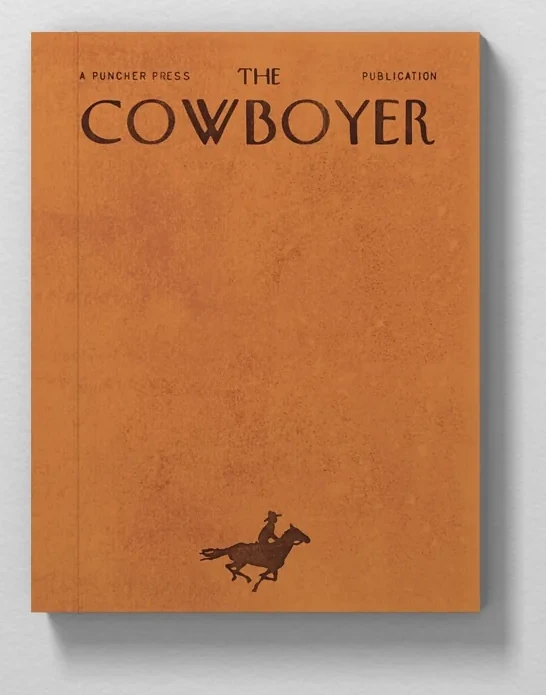
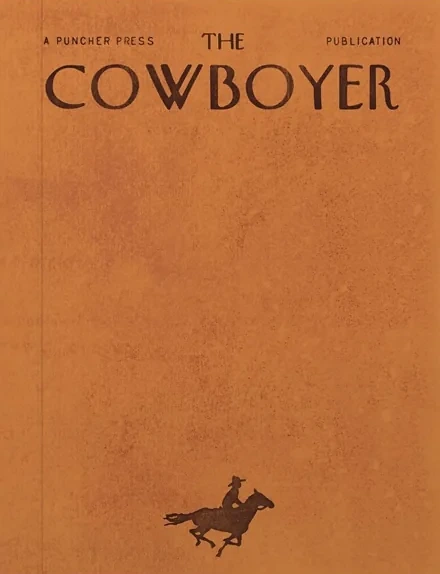
Index plates: factual labels, artwork without frames, originals kept
- Captions name only what is true of each image: its format and the
  wording printed on it (Double Decker Arts Festival, Collage Studio,
  Stars for Second Harvest). Role and Year already sit under the title,
  so plates with nothing more to say carry no caption.
- Joseph Martin and ERNEST show the printed sheet, cropped inside the
  frame; The Cowboyer shows each cover's flat face. Scout no longer
  repeats each illustration as a framed print.
- The original mockups are kept at full resolution in retired/assets,
  following the repository's convention for source images the site no
  longer shows.
- Phones: the Index number and year columns take only the width their
  text needs and the names use the desktop tracking, so every project
  name holds one line and each row keeps its 36px rhythm at 375px
  (Ronnie Hodges Performance Horses wrapped to 43px).

Claude-Session: https://claude.ai/code/session_01GZLWUqV4fTwGcLV6gF4Gcj

diff --git a/site/index/index.html b/site/index/index.html
@@ -748,6 +748,15 @@ body.work-index{height:100dvh;max-height:100dvh}
  .work-index .work-panel.is-open .series > .photo-plate img{width:100%;height:100%;max-height:100%;object-fit:contain}
  .work-index .work-panel.is-open .series-nav{flex:none;min-height:44px}
 }
+
+/* Phones: every project name holds one line, so each row keeps the 36px rhythm.
+   The numbers need 28px and "Ongoing" 54px; the name column takes the rest,
+   set with the same -.015em tracking the desktop Index uses. */
+@media(max-width:850px){
+ .work-index .index-table{letter-spacing:-.015em}
+ .work-index .index-table col:nth-child(1){width:28px}
+ .work-index .index-table col:nth-child(4){width:54px}
+}
 </style><script src="/index/paintings-archive.js" defer></script><link rel="preconnect" href="https://fonts.googleapis.com">
 <link rel="preconnect" href="https://fonts.gstatic.com" crossorigin>
 <link rel="stylesheet" href="/assets/css/geist-mono.css?v=1">
@@ -817,17 +826,15 @@ body.work-index{height:100dvh;max-height:100dvh}
     <div class="panel-content plate" data-panel="scout" hidden>
       <div class="panel-top"><h2 class="panel-title">Scout Motors</h2><button class="panel-close" type="button" aria-label="Close Scout Motors artwork">CLOSE ×</button></div>
       <div class="series" data-series="scout" aria-label="Scout Motors artwork">
-        <figure class="archive-plate photo-plate" data-caption="I / DESERT / ARTWORK"><img loading="lazy" src="../assets/scout-desert.jpg" width="1717" height="2200" alt="Scout illustration: a vehicle and a coyote raising dust across a wide desert, Scout script below" onerror="this.parentElement.classList.add('is-pending');this.hidden=true"></figure>
-        <figure class="archive-plate photo-plate" data-caption="II / RIDERS / ARTWORK" hidden><img loading="lazy" src="../assets/scout-riders.jpg" width="1718" height="2200" alt="Scout illustration: a vehicle alongside two horseback riders under a pale sky, Scout script above" onerror="this.parentElement.classList.add('is-pending');this.hidden=true"></figure>
-        <figure class="archive-plate photo-plate" data-caption="I / DESERT / FRAMED PRINT" hidden><img loading="lazy" src="../assets/scout-desert-framed.jpg" width="1409" height="1600" alt="The desert Scout illustration as a framed print" onerror="this.parentElement.classList.add('is-pending');this.hidden=true"></figure>
-        <figure class="archive-plate photo-plate" data-caption="II / RIDERS / FRAMED PRINT" hidden><img loading="lazy" src="../assets/scout-riders-framed.jpg" width="1413" height="1600" alt="The riders Scout illustration as a framed print" onerror="this.parentElement.classList.add('is-pending');this.hidden=true"></figure>
+        <figure class="archive-plate photo-plate" data-caption=""><img loading="lazy" src="../assets/scout-desert.jpg" width="1717" height="2200" alt="Scout illustration of a vehicle crossing a wide desert landscape" onerror="this.parentElement.classList.add('is-pending');this.hidden=true"></figure>
+        <figure class="archive-plate photo-plate" data-caption="" hidden><img loading="lazy" src="../assets/scout-riders.jpg" width="1718" height="2200" alt="Scout illustration of a vehicle alongside horseback riders" onerror="this.parentElement.classList.add('is-pending');this.hidden=true"></figure>
       </div>
       <div class="series-nav" data-pair-nav="scout" role="group" aria-label="Browse Scout Motors artwork">
         <button type="button" data-pair-step="-1" aria-label="Previous image">←</button>
-        <span data-pair-count>01 / 04</span>
+        <span data-pair-count>01 / 02</span>
         <button type="button" data-pair-step="1" aria-label="Next image">→</button>
       </div>
-      <p class="archive-plate-caption" data-series-caption>I / DESERT / ARTWORK</p>
+      <p class="archive-plate-caption" data-series-caption></p>
     </div>
     <div class="panel-content plate" data-panel="kashus" hidden>
       <div class="panel-top"><h2 class="panel-title">Kashus Culpepper</h2><button class="panel-close" type="button" aria-label="Close Kashus releases">CLOSE ×</button></div>
@@ -841,23 +848,23 @@ body.work-index{height:100dvh;max-height:100dvh}
     <div class="panel-content plate" data-panel="corey" hidden>
       <div class="panel-top"><h2 class="panel-title">Corey Kent</h2><button class="panel-close" type="button" aria-label="Close Corey Kent releases">CLOSE ×</button></div>
       <figure class="archive-plate photo-plate corey-artwork"><img loading="lazy" src="../assets/ck.jpg" width="4000" height="4000" alt="Corey Kent Poster Child EP artwork in blue on cream" onerror="this.parentElement.classList.add('is-pending');this.hidden=true"></figure>
-      <p class="archive-plate-caption"><a href="https://open.spotify.com/album/3GNybGSzZJEuDRYojyUiPz" target="_blank" rel="noopener noreferrer">POSTER CHILD EP ↗</a> / COVER ARTWORK / 2025</p>
+      <p class="archive-plate-caption"><a href="https://open.spotify.com/album/3GNybGSzZJEuDRYojyUiPz" target="_blank" rel="noopener noreferrer">POSTER CHILD EP ↗</a> / COVER ARTWORK</p>
     </div>
 
         <div class="panel-content plate" data-panel="joseph" hidden>
       <div class="panel-top"><h2 class="panel-title">Joseph Martin</h2><button class="panel-close" type="button" aria-label="Close Joseph Martin">CLOSE ×</button></div>
       <div class="series" data-series="joseph" aria-label="Joseph Martin artwork">
-        <figure class="archive-plate photo-plate" data-caption="HATMAKER / DOUBLE DECKER ARTS FESTIVAL POSTER"><img loading="lazy" src="../assets/jm3.png" width="1339" height="1841" alt="Joseph Martin Hatmaker Double Decker Arts Festival poster in purple with cowboy on horseback" onerror="this.parentElement.classList.add('is-pending');this.hidden=true"></figure>
-        <figure class="archive-plate photo-plate" data-caption="MARTIN SURVIVES / EVENT POSTER" hidden><img loading="lazy" src="../assets/joseph-martin-survives.webp" width="605" height="758" alt="Framed Martin Survives event poster, western illustration in red" onerror="this.parentElement.classList.add('is-pending');this.hidden=true"></figure>
-        <figure class="archive-plate photo-plate" data-caption="DON'T CALL IT LUCK / EVENT POSTER" hidden><img loading="lazy" src="../assets/joseph-martin-luck.webp" width="605" height="759" alt="Framed Don't Call It Luck event poster, cowboy illustration in red" onerror="this.parentElement.classList.add('is-pending');this.hidden=true"></figure>
-        <figure class="archive-plate photo-plate" data-caption="COWBOY / INK DRAWING" hidden><img loading="lazy" src="../assets/cg.png" width="19872" height="19872" alt="Red ink illustration of a cowboy in a wide-brimmed hat, for Joseph Martin" onerror="this.parentElement.classList.add('is-pending');this.hidden=true"></figure>
+        <figure class="archive-plate photo-plate" data-caption="POSTER / DOUBLE DECKER ARTS FESTIVAL, OXFORD"><img loading="lazy" src="../assets/jm3.png" width="1339" height="1841" alt="Joseph Martin Hatmaker Double Decker Arts Festival poster in purple with cowboy on horseback" onerror="this.parentElement.classList.add('is-pending');this.hidden=true"></figure>
+        <figure class="archive-plate photo-plate" data-caption="EVENT POSTER / COLLAGE STUDIO, JACKSON" hidden><img loading="lazy" src="../assets/joseph-martin-survives.webp" width="498" height="640" alt="Martin Survives event poster, western illustration in red" onerror="this.parentElement.classList.add('is-pending');this.hidden=true"></figure>
+        <figure class="archive-plate photo-plate" data-caption="EVENT POSTER / COLLAGE STUDIO, JACKSON" hidden><img loading="lazy" src="../assets/joseph-martin-luck.webp" width="498" height="640" alt="Don't Call It Luck event poster, cowboy illustration in red" onerror="this.parentElement.classList.add('is-pending');this.hidden=true"></figure>
+        <figure class="archive-plate photo-plate" data-caption="ILLUSTRATION" hidden><img loading="lazy" src="../assets/cg.png" width="19872" height="19872" alt="Red ink illustration of a cowboy in a wide-brimmed hat, for Joseph Martin" onerror="this.parentElement.classList.add('is-pending');this.hidden=true"></figure>
       </div>
       <div class="series-nav" data-pair-nav="joseph" role="group" aria-label="Browse Joseph Martin artwork">
         <button type="button" data-pair-step="-1" aria-label="Previous image">←</button>
         <span data-pair-count>01 / 04</span>
         <button type="button" data-pair-step="1" aria-label="Next image">→</button>
       </div>
-      <p class="archive-plate-caption" data-series-caption>HATMAKER / DOUBLE DECKER ARTS FESTIVAL POSTER</p>
+      <p class="archive-plate-caption" data-series-caption>POSTER / DOUBLE DECKER ARTS FESTIVAL, OXFORD</p>
     </div>
     <div class="panel-content" data-panel="freeman" hidden>
       <div class="panel-top"><h2 class="panel-title">Freeman General Contracting</h2><button class="panel-close" type="button" aria-label="Close Freeman General Contracting">CLOSE ×</button></div>
@@ -877,8 +884,8 @@ body.work-index{height:100dvh;max-height:100dvh}
     </div>
     <div class="panel-content plate" data-panel="ernest" hidden>
       <div class="panel-top"><h2 class="panel-title">ERNEST</h2><button class="panel-close" type="button" aria-label="Close ERNEST">CLOSE ×</button></div>
-      <figure class="archive-plate photo-plate whole-plate"><img loading="lazy" src="../assets/ernest-second-harvest.webp" width="612" height="698" alt="Framed Stars for Second Harvest event poster designed for ERNEST" onerror="this.parentElement.classList.add('is-pending');this.hidden=true"></figure>
-      <p class="archive-plate-caption">STARS FOR SECOND HARVEST / EVENT POSTER / 2025</p>
+      <figure class="archive-plate photo-plate whole-plate"><img loading="lazy" src="../assets/ernest-second-harvest.webp" width="460" height="584" alt="Stars for Second Harvest event poster designed for ERNEST" onerror="this.parentElement.classList.add('is-pending');this.hidden=true"></figure>
+      <p class="archive-plate-caption">EVENT POSTER / STARS FOR SECOND HARVEST</p>
     </div>
     <div class="panel-content plate" data-panel="drawings" hidden>
       <div class="panel-top"><h2 class="panel-title">Drawings</h2><button class="panel-close" type="button" aria-label="Close Drawings">CLOSE ×</button></div>
@@ -890,40 +897,40 @@ body.work-index{height:100dvh;max-height:100dvh}
           <button type="button" data-drawings-step="1" aria-label="Next drawing">→</button>
         </div>
       </div>
-      <p class="archive-plate-caption" id="drawings-caption">BISON STUDY / INDEPENDENT WORK</p>
+      <p class="archive-plate-caption" id="drawings-caption">BISON STUDY</p>
     </div>
     <div class="panel-content plate" data-panel="cowboyer" hidden>
       <div class="panel-top"><h2 class="panel-title">The Cowboyer</h2><button class="panel-close" type="button" aria-label="Close The Cowboyer">CLOSE ×</button></div>
       <div class="series" data-series="cowboyer" aria-label="The Cowboyer cover studies">
-        <figure class="archive-plate photo-plate" data-caption="BISON / COVER STUDY"><img loading="lazy" src="../assets/cowboyer-bison.webp" width="517" height="661" alt="The Cowboyer magazine cover with bison under colored western sky" onerror="this.parentElement.classList.add('is-pending');this.hidden=true"></figure>
-        <figure class="archive-plate photo-plate" data-caption="ORANGE RIDER / COVER STUDY" hidden><img loading="lazy" src="../assets/cowboyer-orange-rider.webp" width="546" height="695" alt="The Cowboyer magazine cover in orange with a small horse and rider" onerror="this.parentElement.classList.add('is-pending');this.hidden=true"></figure>
-        <figure class="archive-plate photo-plate" data-caption="RED LASSO / COVER STUDY" hidden><img loading="lazy" src="../assets/Group%20394.png" width="2580" height="3323" alt="The Cowboyer cover: a small cowboy swinging a red lasso" onerror="this.parentElement.classList.add('is-pending');this.hidden=true"></figure>
-        <figure class="archive-plate photo-plate" data-caption="DESERT / COVER STUDY" hidden><img loading="lazy" src="../assets/Group%20393.png" width="2557" height="3323" alt="The Cowboyer cover: a cowboy watching a tall cloud rise over the desert" onerror="this.parentElement.classList.add('is-pending');this.hidden=true"></figure>
+        <figure class="archive-plate photo-plate" data-caption=""><img loading="lazy" src="../assets/cowboyer-bison.webp" width="421" height="547" alt="The Cowboyer magazine cover with bison under colored western sky" onerror="this.parentElement.classList.add('is-pending');this.hidden=true"></figure>
+        <figure class="archive-plate photo-plate" data-caption="" hidden><img loading="lazy" src="../assets/cowboyer-orange-rider.webp" width="440" height="574" alt="The Cowboyer magazine cover in orange with a horse and rider" onerror="this.parentElement.classList.add('is-pending');this.hidden=true"></figure>
+        <figure class="archive-plate photo-plate" data-caption="" hidden><img loading="lazy" src="../assets/Group%20394.png" width="2580" height="3323" alt="The Cowboyer cover with a red line drawing of a cowboy and lasso" onerror="this.parentElement.classList.add('is-pending');this.hidden=true"></figure>
+        <figure class="archive-plate photo-plate" data-caption="" hidden><img loading="lazy" src="../assets/Group%20393.png" width="2557" height="3323" alt="The Cowboyer cover with a cowboy facing a desert sky" onerror="this.parentElement.classList.add('is-pending');this.hidden=true"></figure>
       </div>
       <div class="series-nav" data-pair-nav="cowboyer" role="group" aria-label="Browse The Cowboyer covers">
         <button type="button" data-pair-step="-1" aria-label="Previous image">←</button>
         <span data-pair-count>01 / 04</span>
         <button type="button" data-pair-step="1" aria-label="Next image">→</button>
       </div>
-      <p class="archive-plate-caption" data-series-caption>BISON / COVER STUDY</p>
+      <p class="archive-plate-caption" data-series-caption></p>
     </div>
     <div class="panel-content plate" data-panel="habitat" hidden>
       <div class="panel-top"><h2 class="panel-title">Habitat Ranch</h2><button class="panel-close" type="button" aria-label="Close Habitat Ranch">CLOSE ×</button></div>
       <figure class="archive-plate photo-plate whole-plate"><img loading="lazy" src="../assets/habitat-ranch.webp" width="750" height="600" alt="Habitat Ranch cap and denim portrait" onerror="this.parentElement.classList.add('is-pending');this.hidden=true"></figure>
-      <p class="archive-plate-caption">01 / HABITAT RANCH / 2025</p>
+      <p class="archive-plate-caption"></p>
     </div>
     <div class="panel-content plate" data-panel="pbr" hidden>
       <div class="panel-top"><h2 class="panel-title">PBR</h2><button class="panel-close" type="button" aria-label="Close PBR">CLOSE ×</button></div>
       <div class="series" data-series="pbr" aria-label="PBR photographs">
-        <figure class="archive-plate photo-plate" data-caption="BACKSTAGE / PHOTOGRAPHY"><img loading="lazy" src="../assets/pbr-portrait.webp" width="750" height="938" alt="Rodeo participant backstage" onerror="this.parentElement.classList.add('is-pending');this.hidden=true"></figure>
-        <figure class="archive-plate photo-plate" data-caption="THE CHUTE / PHOTOGRAPHY" hidden><img loading="lazy" src="../assets/pbr-bull.webp" width="750" height="938" alt="Bull waiting in a rodeo chute" onerror="this.parentElement.classList.add('is-pending');this.hidden=true"></figure>
+        <figure class="archive-plate photo-plate" data-caption=""><img loading="lazy" src="../assets/pbr-portrait.webp" width="750" height="938" alt="Rodeo participant backstage" onerror="this.parentElement.classList.add('is-pending');this.hidden=true"></figure>
+        <figure class="archive-plate photo-plate" data-caption="" hidden><img loading="lazy" src="../assets/pbr-bull.webp" width="750" height="938" alt="Bull waiting in a rodeo chute" onerror="this.parentElement.classList.add('is-pending');this.hidden=true"></figure>
       </div>
       <div class="series-nav" data-pair-nav="pbr" role="group" aria-label="Browse PBR photographs">
         <button type="button" data-pair-step="-1" aria-label="Previous image">←</button>
         <span data-pair-count>01 / 02</span>
         <button type="button" data-pair-step="1" aria-label="Next image">→</button>
       </div>
-      <p class="archive-plate-caption" data-series-caption>BACKSTAGE / PHOTOGRAPHY</p>
+      <p class="archive-plate-caption" data-series-caption></p>
     </div>
     <div class="panel-content plate" data-panel="ronnie-photo" hidden>
       <div class="panel-top"><h2 class="panel-title">Ronnie Hodges Performance Horses</h2><button class="panel-close" type="button" aria-label="Close Ronnie Hodges photographs">CLOSE ×</button></div>
@@ -931,7 +938,7 @@ body.work-index{height:100dvh;max-height:100dvh}
         <figure class="archive-plate photo-plate"><img id="ronnie-active-image" loading="lazy" src="../assets/ronnie-hodges-01.webp" width="750" height="749" alt="Ronnie Hodges speaking while seated on horseback"></figure>
         <div class="ronnie-navigation" role="group" aria-label="Browse Ronnie Hodges photographs"><button type="button" data-photo-step="-1" aria-label="Previous photograph">←</button><span id="ronnie-count">01 / 02</span><button type="button" data-photo-step="1" aria-label="Next photograph">→</button></div>
       </div>
-      <p class="archive-plate-caption">01—02 / RONNIE HODGES / PHOTOGRAPHY / 2022</p>
+      <p class="archive-plate-caption"></p>
     </div>
     <div class="panel-content plate" data-panel="teton-photo" hidden>
       <div class="panel-top"><h2 class="panel-title">Teton Valley Ranch</h2><button class="panel-close" type="button" aria-label="Close Teton Valley Ranch">CLOSE ×</button></div>
@@ -939,12 +946,12 @@ body.work-index{height:100dvh;max-height:100dvh}
         <figure class="archive-plate photo-plate"><img id="teton-active-image" loading="lazy" src="../assets/teton-valley-ranch.webp" alt="Lone horseback rider on a ridge at Teton Valley Ranch"></figure>
         <div class="teton-navigation" role="group" aria-label="Browse Teton Valley Ranch photographs"><button type="button" data-photo-step="-1" aria-label="Previous photograph">←</button><span id="teton-count">01 / 03</span><button type="button" data-photo-step="1" aria-label="Next photograph">→</button></div>
       </div>
-      <p class="archive-plate-caption">01—03 / TETON VALLEY RANCH / PHOTOGRAPHY / 2015</p>
+      <p class="archive-plate-caption"></p>
     </div>
     <div class="panel-content plate" data-panel="mags" hidden>
       <div class="panel-top"><h2 class="panel-title">Mags Duval</h2><button class="panel-close" type="button" aria-label="Close Mags Duval">CLOSE ×</button></div>
       <figure class="archive-plate photo-plate mags-photo"><img loading="lazy" src="../assets/M2.jpeg" width="3601" height="3601" alt="Portrait of Mags Duval holding a red rose" onerror="this.parentElement.classList.add('is-pending');this.hidden=true"></figure>
-      <p class="archive-plate-caption">01 / MAGS DUVAL / PHOTOGRAPHY / 2024</p>
+      <p class="archive-plate-caption"></p>
     </div>
   </aside></div>
   
@@ -1281,7 +1288,7 @@ body.work-index{height:100dvh;max-height:100dvh}
    const slide=slides[position];
    image.src=slide.src;image.alt=slide.caption;
    count.textContent=String(position+1).padStart(2,'0')+' / '+String(slides.length).padStart(2,'0');
-   caption.textContent=slide.caption.toUpperCase()+' / INDEPENDENT WORK';
+   caption.textContent=slide.caption.toUpperCase();
  }
  gallery.querySelectorAll('[data-drawings-step]').forEach(button=>button.addEventListener('click',()=>show(position+Number(button.dataset.drawingsStep))));
  gallery.addEventListener('keydown',event=>{

diff --git a/retired/README.md b/retired/README.md
@@ -13,8 +13,15 @@ colecalfee.com.
 | `projects/scout-motors/` | `/projects/scout-motors/` | 301 → `/index/#scout` |
 | `archive/333-westover/` | `/archive/333-westover/` | 404 |
 | `studies/painting-crops/` | `/studies/painting-crops/` | 404 (crop-planning tooling) |
-| `assets/` | `/assets/…` | 404: images no longer shown on the site (earlier crops and sizes) |
+| `assets/` | `/assets/…` | 404: images no longer shown on the site (earlier crops and sizes, and the original mockups the Index artwork is cropped from) |
 
 These pages still reference `/assets/…` as they did when they were public, so
 they will not render fully from here. `studies/painting-crops/apply.py` was
 written for the old layout; its target is now `site/paintings/index.html`.
+
+`assets/s1.jpeg`, `s2.jpeg` (Scout Motors), `joseph-martin-01.webp`,
+`joseph-martin-02.webp`, `ernest.webp`, `cowboyer-cover-01.webp` and
+`cowboyer-cover-02.webp` are the original framed and wall mockups, kept at full
+resolution. The Index now shows the artwork cropped from them
+(`site/assets/scout-*.jpg`, `joseph-martin-survives.webp`, `joseph-martin-luck.webp`,
+`ernest-second-harvest.webp`, `cowboyer-bison.webp`, `cowboyer-orange-rider.webp`).
